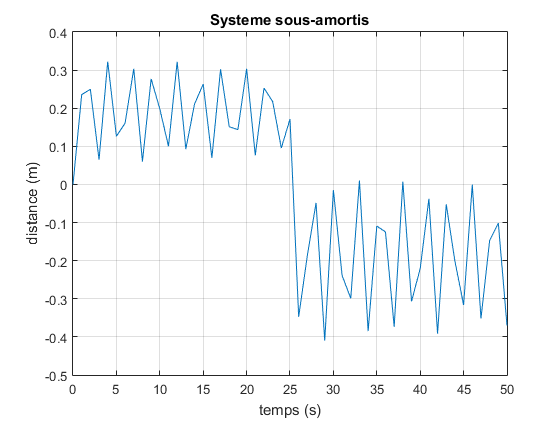
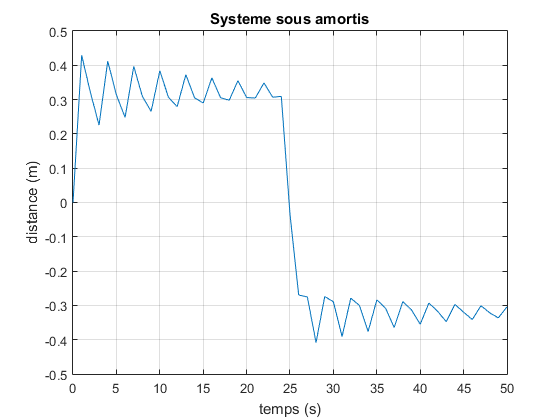
Update values
Updated to match actual products:
-k
-b
Updated overdamped and underdamped examples

diff --git a/TracteurEtRemorqueSimMESSINGVALUES.m b/TracteurEtRemorqueSimMESSINGVALUES.m
@@ -1,14 +1,14 @@
 clc;clear;
 
-k=40000;    %constante du ressort [N/m]         40000
-b=30000;    %constante d'amortisseur [N/ms]     30000
+k=120000;    %constante du ressort [N/m]         40000
+b=37000;    %constante d'amortisseur [N/ms]     30000
 mT=9000;    %masse du tracteur [kg]
 %you should take this: 9000
 %http://www.tractorspecs.com/specs/JohnDeere/6120.aspx
 mR=30000;   %masse du remorque [kg]
 %you should take this: 30000
 %http://manuals.deere.com/omview/OMH226957_19/OUO6075_0000375_19_24APR06_1.htm 
-T = 10000;  %torque applique [N/m]
+T = 50000;  %torque applique [N/m]
 r = 0; %rayon du roue [m]
 
 
@@ -29,6 +29,8 @@ title('Systeme bien amortis')
 xlabel('temps (s)')
 ylabel('distance (m)')
 grid on
+
+
 %u = heaviside function (unit step). By default starts at 0, we want it 
 %to stop at some point (by default continues into infinite). In order to 
 %make it stop @ two seconds, we set u(t-2s), so that for t = 2, u = 0
